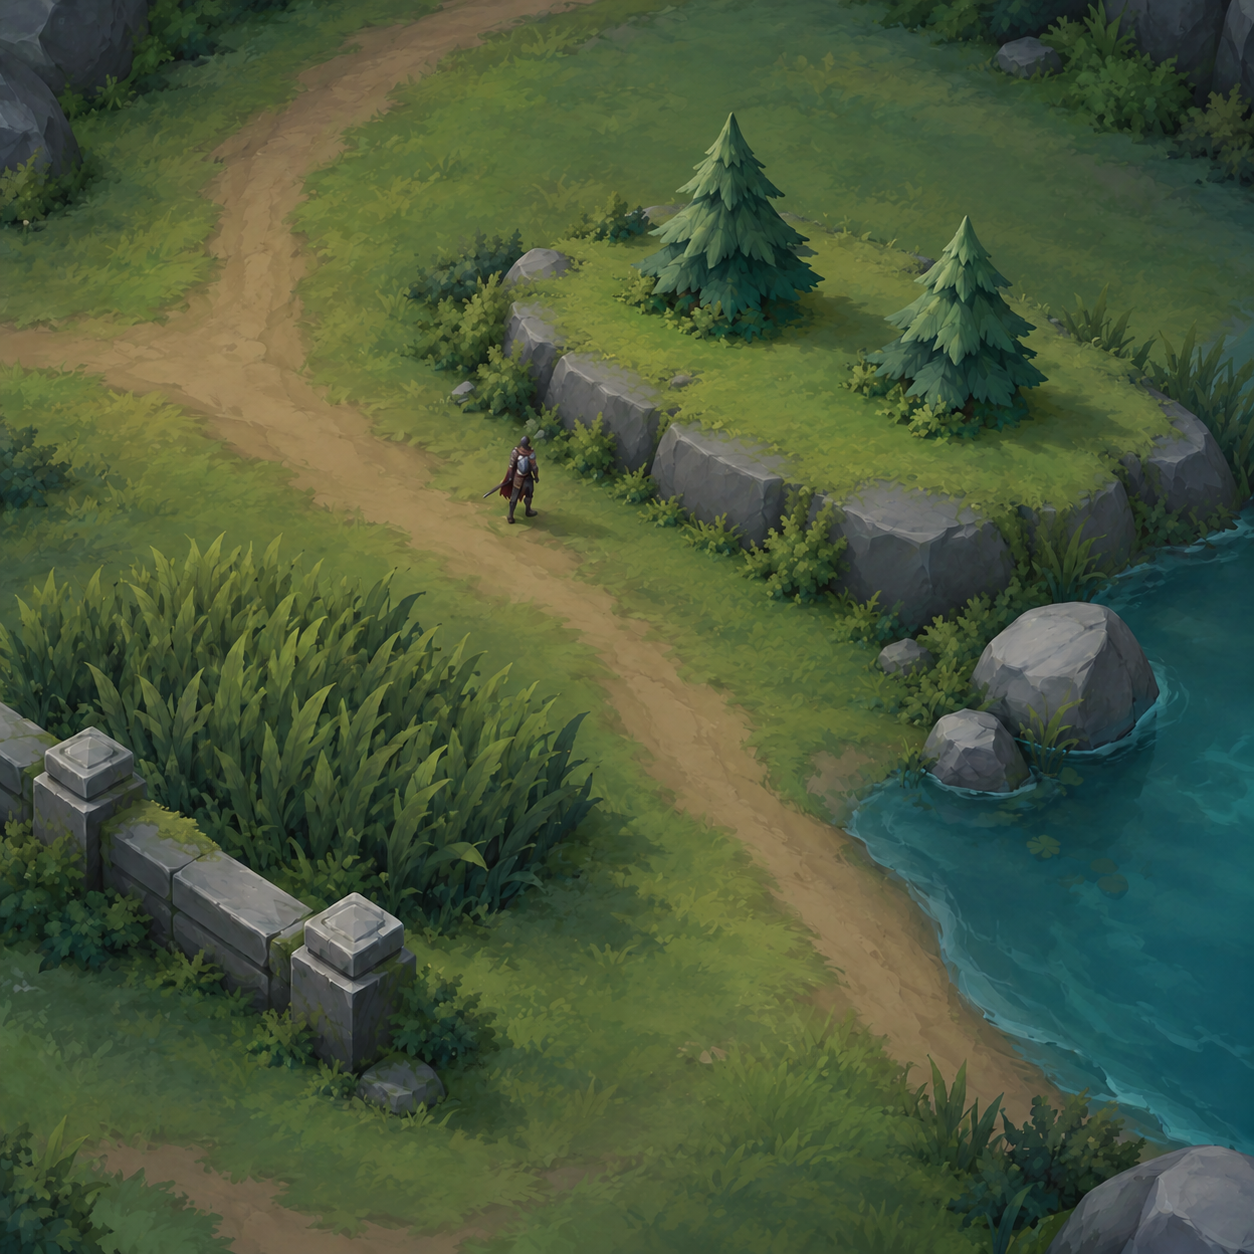
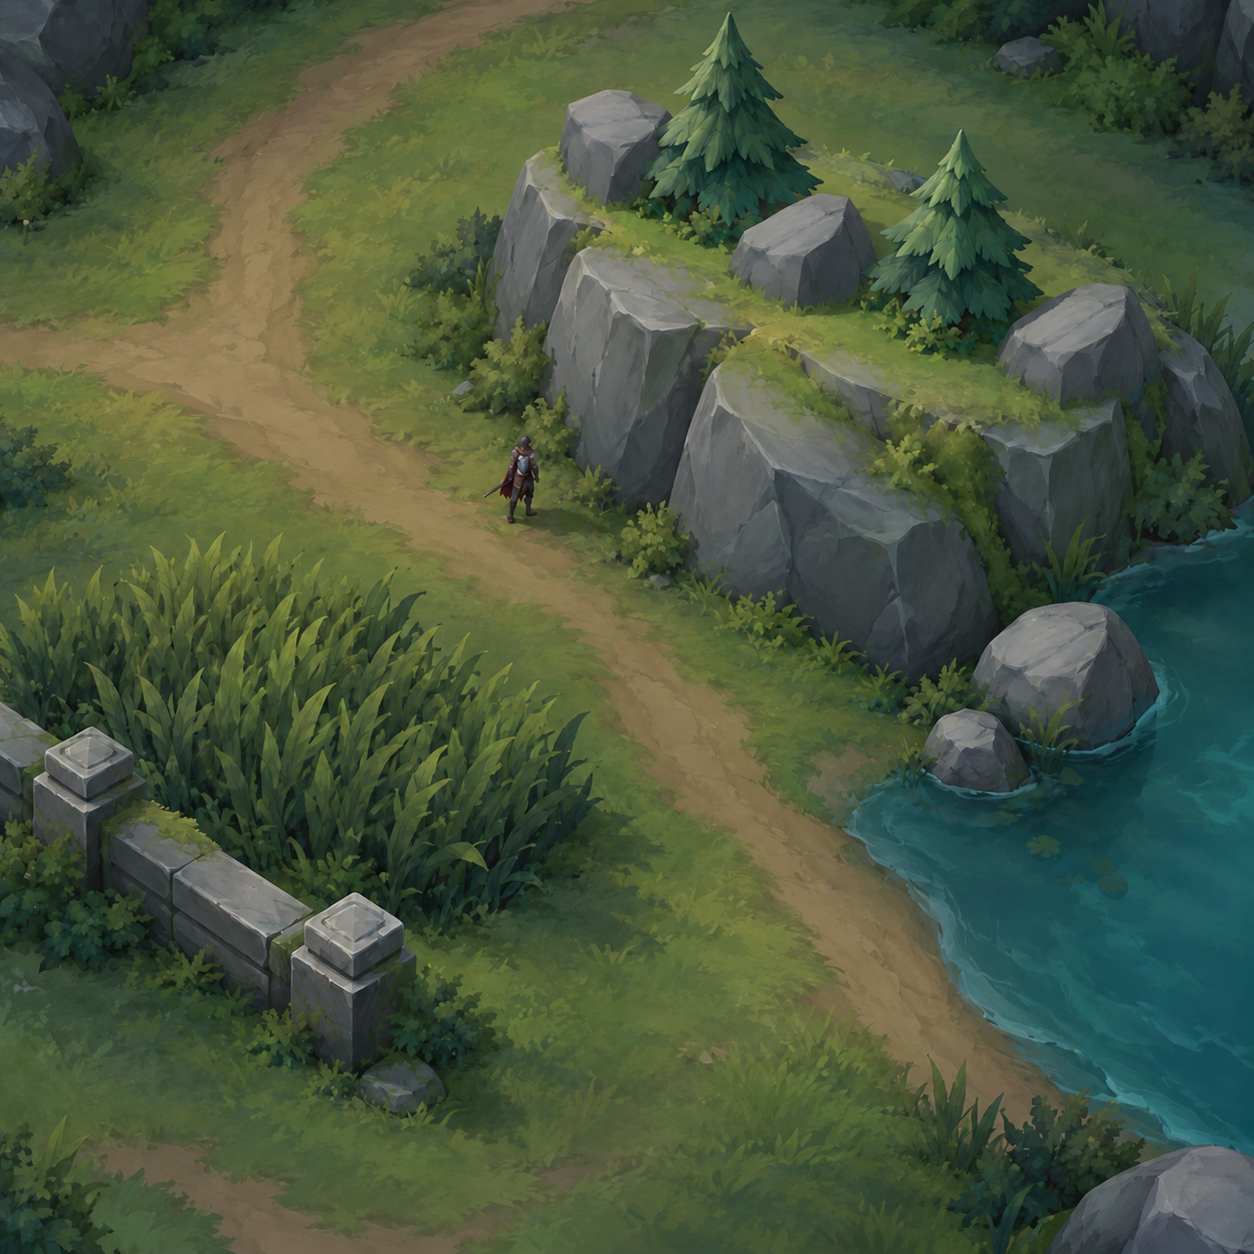
art: break up map cliff top with large rocks

Changed region(s): [[0.311, 0.0, 1.0, 0.5598]]

diff --git a/art_inbox/YEU_CAU_KIT_MAP.md b/art_inbox/YEU_CAU_KIT_MAP.md
@@ -62,8 +62,9 @@ at about 45 degrees, plain pure white background, no cast shadow, no ground, fla
 ## Đợt S — Bảng phong cách (1 ảnh) — làm rồi DỪNG
 
 - [x] `bang_phong_cach.png` — **một góc map nhìn từ camera game** (nghiêng ~46° từ trên xuống), vuông,
-  không phải ảnh vật thể nền trắng. Gồm: nền cỏ có một lối đất; **một khối đá lớn** (cao ~1,5 m, đỉnh phủ
-  cỏ) có **2 cây thông** điểm trên đỉnh; **một vùng bụi cỏ**; một khúc **mép sông** có 1–2 khối đá bờ;
+  không phải ảnh vật thể nền trắng. Gồm: nền cỏ có một lối đất; **một khối đá lớn** (cao hơn nhân vật,
+  đỉnh phủ cỏ nhưng không phẳng trống, có 2–3 khối đá lớn đơn giản chân chìm vào đỉnh) và **2 cây thông**
+  điểm trên đỉnh; cây là asset riêng, có thể thêm/bớt khi ghép map. Có **một vùng bụi cỏ**; một khúc **mép sông** có 1–2 khối đá bờ;
   một đoạn **rào đá thẳng**; một nhân vật nhỏ cao ~1,2 m để so tỉ lệ. Dùng đúng bảng màu trên, màu dịu,
   mọi vật hài hòa với nhau. Đây là ảnh neo cho mọi ảnh sau.
 
